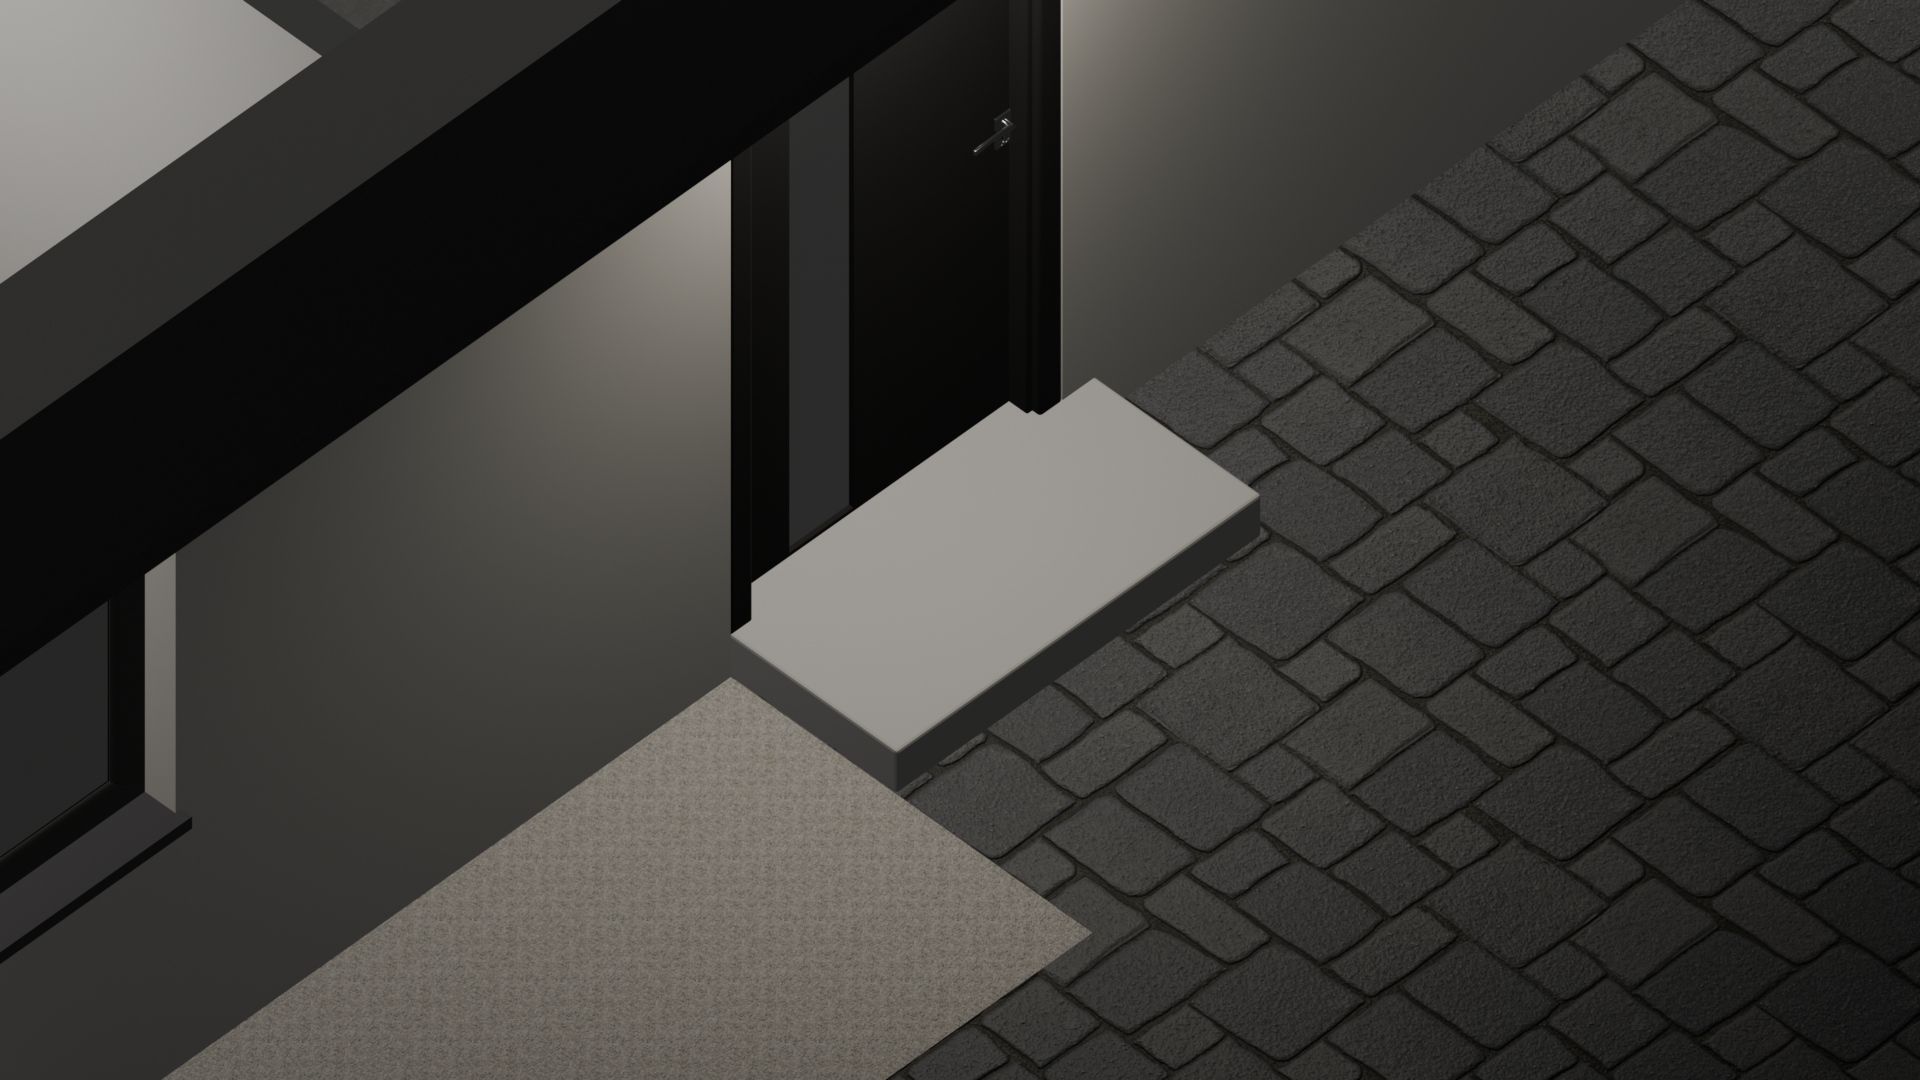
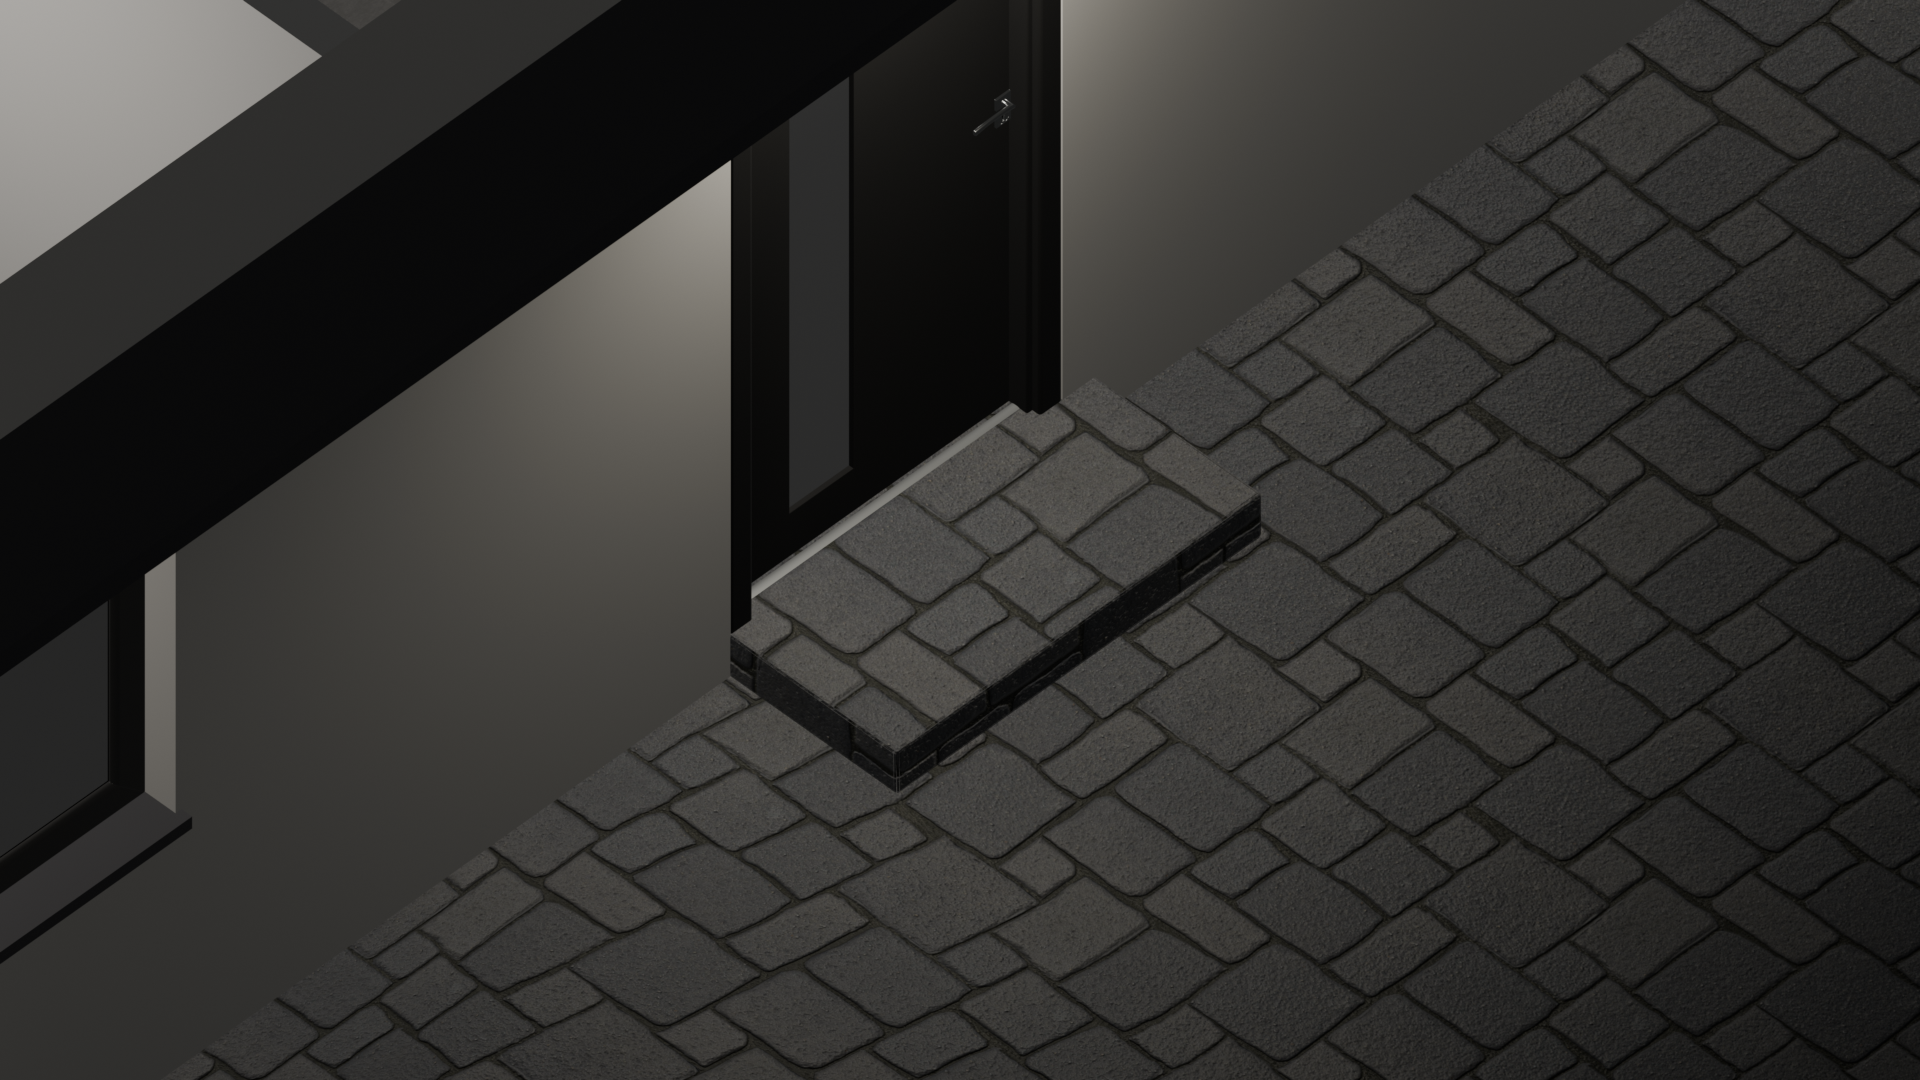
feat(exterior): adjust door height to entrance step, align paving UV scale, clean up curbs, and shorten gravel perimeter

Changed region(s): [[0.0938, 0.3361, 0.6562, 1.0], [0.5312, 0.9472, 0.5625, 0.9778], [0.5, 0.0917, 0.5312, 0.1222]]

diff --git a/apply_user_adjustments.py b/apply_user_adjustments.py
@@ -1,0 +1,230 @@
+import bpy
+import bmesh
+import mathutils
+
+def adjust_entrance_door():
+    print("[1] Adjusting entrance door height to Step_Front_Entrance...")
+    ram = bpy.data.objects.get("ram")
+    step = bpy.data.objects.get("Step_Front_Entrance")
+    dvere = bpy.data.objects.get("dvere")
+    dvere_handle = bpy.data.objects.get("dvere.001")
+    
+    if not ram or not step:
+        print("ERROR: ram or Step_Front_Entrance not found!")
+        return
+
+    # Step top is at Z = 0.1400
+    # Wall lintel is at Z = 2.0500
+    # Target ram bounds: Z in [0.1400, 2.0500] -> height = 1.9100m
+    # In check_door_hierarchy, ram local mesh Z: min=-0.0036, max=2.0773, span=2.0809
+    z_min_local = min(v.co.z for v in ram.data.vertices)
+    z_max_local = max(v.co.z for v in ram.data.vertices)
+    unscaled_h = z_max_local - z_min_local
+    
+    target_z_bottom = 0.1400
+    target_z_top = 2.0500
+    target_h = target_z_top - target_z_bottom
+    
+    new_scale_z = target_h / unscaled_h
+    new_loc_z = target_z_bottom - new_scale_z * z_min_local
+    
+    ram.scale.z = new_scale_z
+    ram.location.z = new_loc_z
+    
+    # Update depsgraph to calculate world matrices
+    bpy.context.view_layer.update()
+    
+    ram_bb = [ram.matrix_world @ mathutils.Vector(c) for c in ram.bound_box]
+    dvere_bb = [dvere.matrix_world @ mathutils.Vector(c) for c in dvere.bound_box]
+    print(f"  ram new Z bounds: [{min(v.z for v in ram_bb):.4f}, {max(v.z for v in ram_bb):.4f}], scale.z={ram.scale.z:.4f}, loc.z={ram.location.z:.4f}")
+    print(f"  dvere new Z bounds: [{min(v.z for v in dvere_bb):.4f}, {max(v.z for v in dvere_bb):.4f}]")
+
+
+def fix_paving_stone_face_86_uv():
+    print("\n[2] Fixing Paving Stone UV on Face 86 and Step_Front_Entrance...")
+    slab = bpy.data.objects.get("Foundation_Slab")
+    if not slab:
+        print("ERROR: Foundation_Slab not found!")
+        return
+        
+    uv_layer = slab.data.uv_layers.active
+    mw = slab.matrix_world
+    
+    # Face 86 is X in [2.19, 4.64], Y in [-1.20, 0.00]
+    for poly in slab.data.polygons:
+        if poly.normal.z > 0.5:
+            mat_name = slab.material_slots[poly.material_index].name
+            if mat_name == "Paving Stones":
+                verts = [mw @ slab.data.vertices[v_idx].co for v_idx in poly.vertices]
+                poly_min_x = min(v.x for v in verts)
+                poly_max_x = max(v.x for v in verts)
+                poly_min_y = min(v.y for v in verts)
+                poly_max_y = max(v.y for v in verts)
+                
+                if 2.18 <= poly_min_x and poly_max_x <= 4.65 and -1.25 <= poly_min_y and poly_max_y <= 0.05:
+                    print(f"  Found Face {poly.index} (X=[{poly_min_x:.2f}, {poly_max_x:.2f}], Y=[{poly_min_y:.2f}, {poly_max_y:.2f}])")
+                    for loop_idx in poly.loop_indices:
+                        v_idx = slab.data.loops[loop_idx].vertex_index
+                        co = mw @ slab.data.vertices[v_idx].co
+                        uv_layer.data[loop_idx].uv = mathutils.Vector((co.x, co.y))
+                        
+    # Also update cubic projection on Step_Front_Entrance so risers don't stretch
+    step = bpy.data.objects.get("Step_Front_Entrance")
+    if step:
+        step_uv = step.data.uv_layers.active or step.data.uv_layers.new(name="UVMap")
+        for poly in step.data.polygons:
+            n = poly.normal
+            for loop_idx in poly.loop_indices:
+                v_idx = step.data.loops[loop_idx].vertex_index
+                co = step.data.vertices[v_idx].co
+                if abs(n.z) > 0.7:
+                    step_uv.data[loop_idx].uv = mathutils.Vector((co.x, co.y))
+                elif abs(n.y) > 0.7:
+                    step_uv.data[loop_idx].uv = mathutils.Vector((co.x, co.z))
+                elif abs(n.x) > 0.7:
+                    step_uv.data[loop_idx].uv = mathutils.Vector((co.y, co.z))
+        step.data.update()
+        print("  Step_Front_Entrance UV updated with cubic mapping.")
+
+
+def fix_garden_curbs():
+    print("\n[3] Aligning Garden_Curbs vertical walls according to user-edited top bounds...")
+    curbs = bpy.data.objects.get("Garden_Curbs")
+    if not curbs:
+        print("ERROR: Garden_Curbs not found!")
+        return
+        
+    # The user adjusted top inner coordinates:
+    # V8: (5.000, 12.722, 0.035)
+    # V9: (-0.615, 12.722, 0.035)
+    # V10: (-0.615, -0.758, 0.035)
+    # V11: (2.190, -0.758, 0.035)
+    # And top outer coordinates:
+    # V44: (4.920, 12.802, 0.035)
+    # V45: (-0.695, 12.802, 0.035)
+    # V46: (-0.695, -0.838, 0.035)
+    # V47: (2.110, -0.838, 0.035)
+    
+    # Target clean inner coordinates:
+    # North: Y = 12.722
+    # West:  X = -0.615
+    # South: Y = -0.758
+    # Terrace junction: X = 5.000
+    # Driveway junction: X = 2.190
+    
+    # Outer coordinates (curb width 0.08m):
+    # North: Y = 12.802
+    # West:  X = -0.695
+    # South: Y = -0.838
+    # Terrace junction: X = 4.920
+    # Driveway junction: X = 2.110
+    
+    # Inner bottom vertices at Z = 0.000 (V20, V21, V22, V23)
+    curbs.data.vertices[20].co = mathutils.Vector((5.000, 12.722, 0.000))
+    curbs.data.vertices[21].co = mathutils.Vector((-0.615, 12.722, 0.000))
+    curbs.data.vertices[22].co = mathutils.Vector((-0.615, -0.758, 0.000))
+    curbs.data.vertices[23].co = mathutils.Vector((2.190, -0.758, 0.000))
+    
+    # Inner footing vertices at Z = -0.100 (V32, V33, V34, V35)
+    curbs.data.vertices[32].co = mathutils.Vector((5.000, 12.722, -0.100))
+    curbs.data.vertices[33].co = mathutils.Vector((-0.615, 12.722, -0.100))
+    curbs.data.vertices[34].co = mathutils.Vector((-0.615, -0.758, -0.100))
+    curbs.data.vertices[35].co = mathutils.Vector((2.190, -0.758, -0.100))
+    
+    # Outer bottom vertices at Z = -0.100 (V56, V57, V58, V59)
+    curbs.data.vertices[56].co = mathutils.Vector((4.920, 12.802, -0.100))
+    curbs.data.vertices[57].co = mathutils.Vector((-0.695, 12.802, -0.100))
+    curbs.data.vertices[58].co = mathutils.Vector((-0.695, -0.838, -0.100))
+    curbs.data.vertices[59].co = mathutils.Vector((2.110, -0.838, -0.100))
+    
+    # Top inner vertices (V8, V9, V10, V11)
+    curbs.data.vertices[8].co  = mathutils.Vector((5.000, 12.722, 0.035))
+    curbs.data.vertices[9].co  = mathutils.Vector((-0.615, 12.722, 0.035))
+    curbs.data.vertices[10].co = mathutils.Vector((-0.615, -0.758, 0.035))
+    curbs.data.vertices[11].co = mathutils.Vector((2.190, -0.758, 0.035))
+    
+    # Top outer vertices (V44, V45, V46, V47)
+    curbs.data.vertices[44].co = mathutils.Vector((4.920, 12.802, 0.035))
+    curbs.data.vertices[45].co = mathutils.Vector((-0.695, 12.802, 0.035))
+    curbs.data.vertices[46].co = mathutils.Vector((-0.695, -0.838, 0.035))
+    curbs.data.vertices[47].co = mathutils.Vector((2.110, -0.838, 0.035))
+    
+    curbs.data.update()
+    print("  Garden_Curbs vertices successfully aligned and verified vertical.")
+
+
+def shorten_foundation_slab_and_kacirek():
+    print("\n[4] Shortening Foundation_Slab and kačírek to fit inside new curbs...")
+    slab = bpy.data.objects.get("Foundation_Slab")
+    if not slab:
+        print("ERROR: Foundation_Slab not found!")
+        return
+        
+    mw = slab.matrix_world
+    mw_inv = mw.inverted()
+    
+    # 1. West perimeter: move any vertex currently at X = -1.200 to X = -0.615
+    # 2. South kačírek perimeter: move any vertex currently at Y = -1.200 and X <= 2.190 to Y = -0.758
+    # 3. North kačírek perimeter: move any vertex currently at Y = 13.200 and X <= 5.000 to Y = 12.722
+    
+    count_west = 0
+    count_south = 0
+    count_north = 0
+    
+    for v in slab.data.vertices:
+        co = mw @ v.co
+        modified = False
+        new_x = co.x
+        new_y = co.y
+        new_z = co.z
+        
+        # West edge:
+        if abs(co.x - (-1.200)) < 0.01:
+            new_x = -0.615
+            modified = True
+            count_west += 1
+            
+        # South kačírek edge:
+        if abs(co.y - (-1.200)) < 0.01 and co.x <= 2.191:
+            new_y = -0.758
+            modified = True
+            count_south += 1
+            
+        # North kačírek edge:
+        if abs(co.y - 13.200) < 0.01 and co.x <= 5.001:
+            new_y = 12.722
+            modified = True
+            count_north += 1
+            
+        if modified:
+            v.co = mw_inv @ mathutils.Vector((new_x, new_y, new_z))
+            
+    print(f"  Updated vertices: {count_west} west, {count_south} south, {count_north} north.")
+    
+    # Update UV mapping on the Beach Pebbles faces so texture scale remains 1:1
+    uv_layer = slab.data.uv_layers.active
+    if uv_layer:
+        for poly in slab.data.polygons:
+            if poly.normal.z > 0.5:
+                mat_name = slab.material_slots[poly.material_index].name
+                if mat_name == "Beach Pebbles":
+                    for loop_idx in poly.loop_indices:
+                        v_idx = slab.data.loops[loop_idx].vertex_index
+                        co = mw @ slab.data.vertices[v_idx].co
+                        # UV scale 2.0 for Beach Pebbles as previously used
+                        uv_layer.data[loop_idx].uv = mathutils.Vector((co.x * 2.0, co.y * 2.0))
+                        
+    slab.data.update()
+    print("  Foundation_Slab geometry and UVs successfully updated.")
+
+
+if __name__ == "__main__":
+    adjust_entrance_door()
+    fix_paving_stone_face_86_uv()
+    fix_garden_curbs()
+    shorten_foundation_slab_and_kacirek()
+    
+    # Save the blend file
+    blend_path = "C:/Users/Vaso/Antigravity/Project blender/dum_pudorys.blend"
+    bpy.ops.wm.save_as_mainfile(filepath=blend_path)
+    print(f"\nSaved updated file to {blend_path}")
